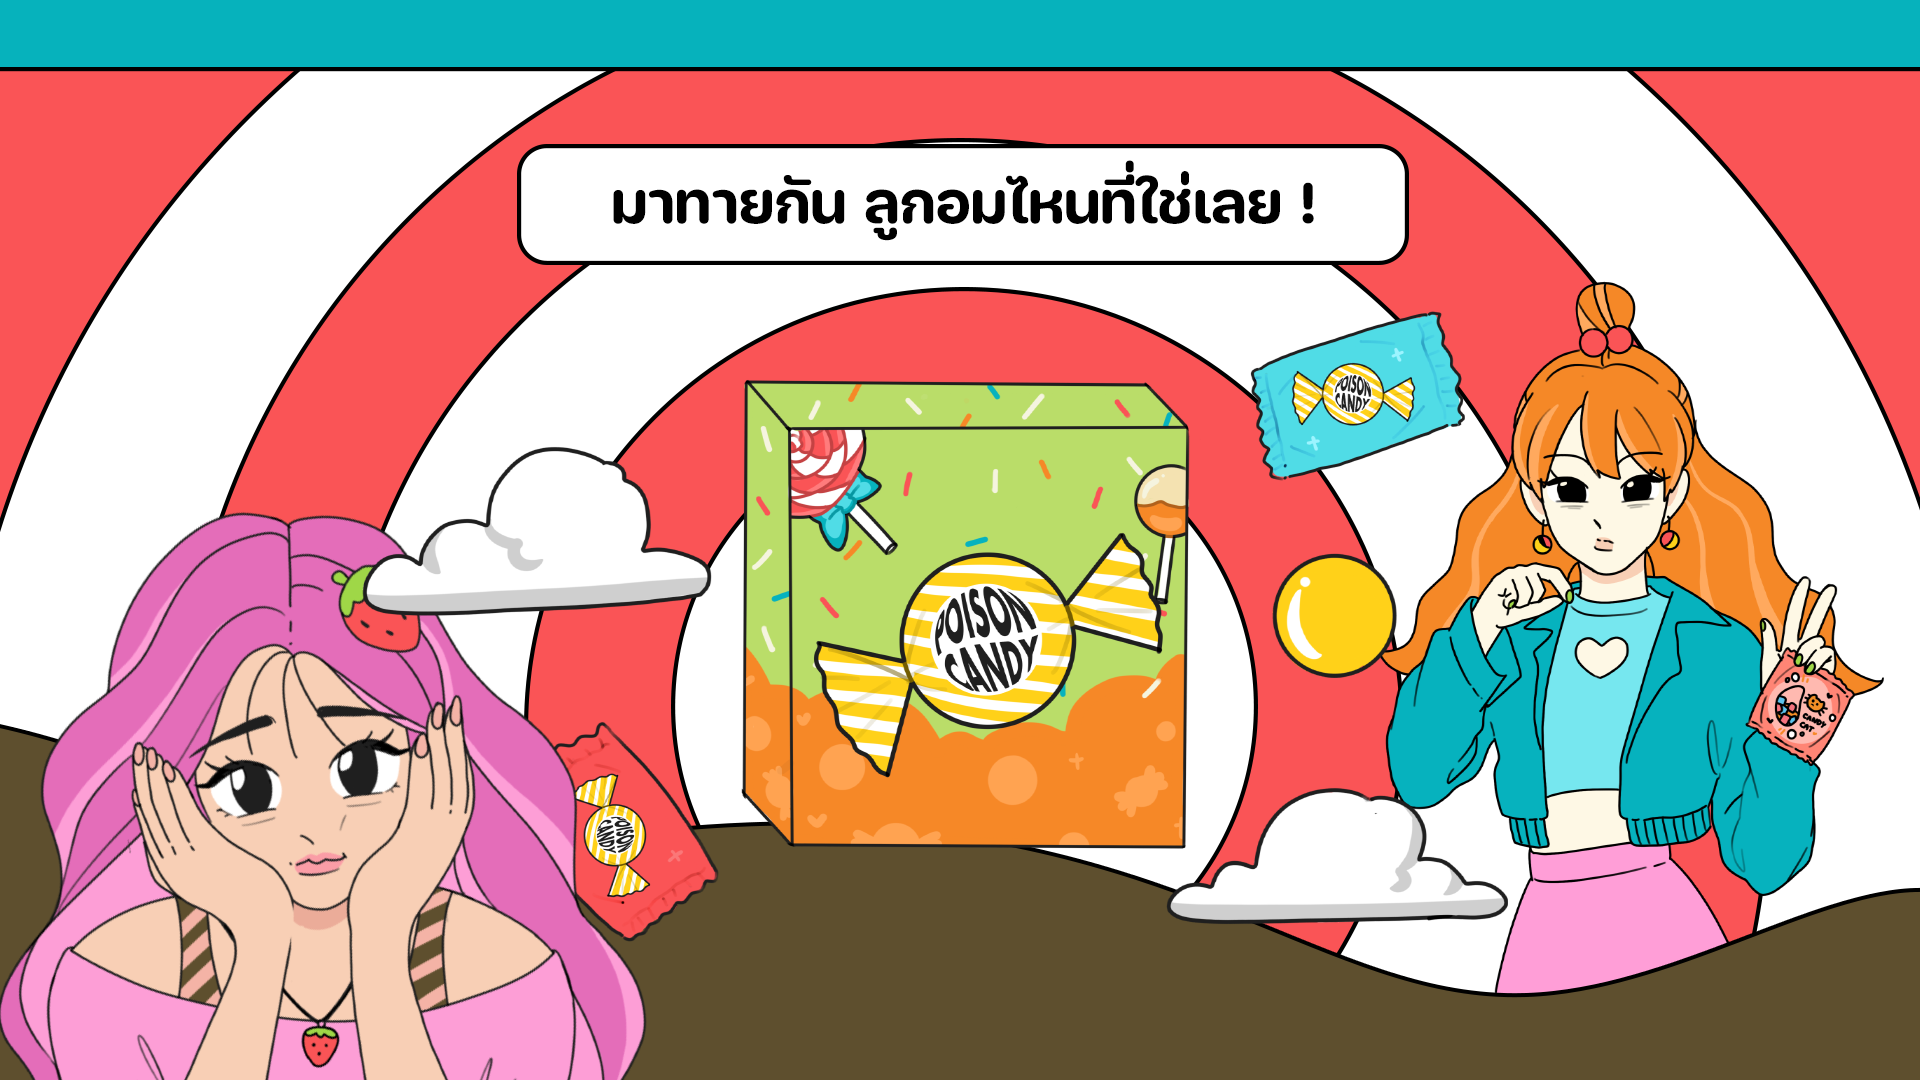
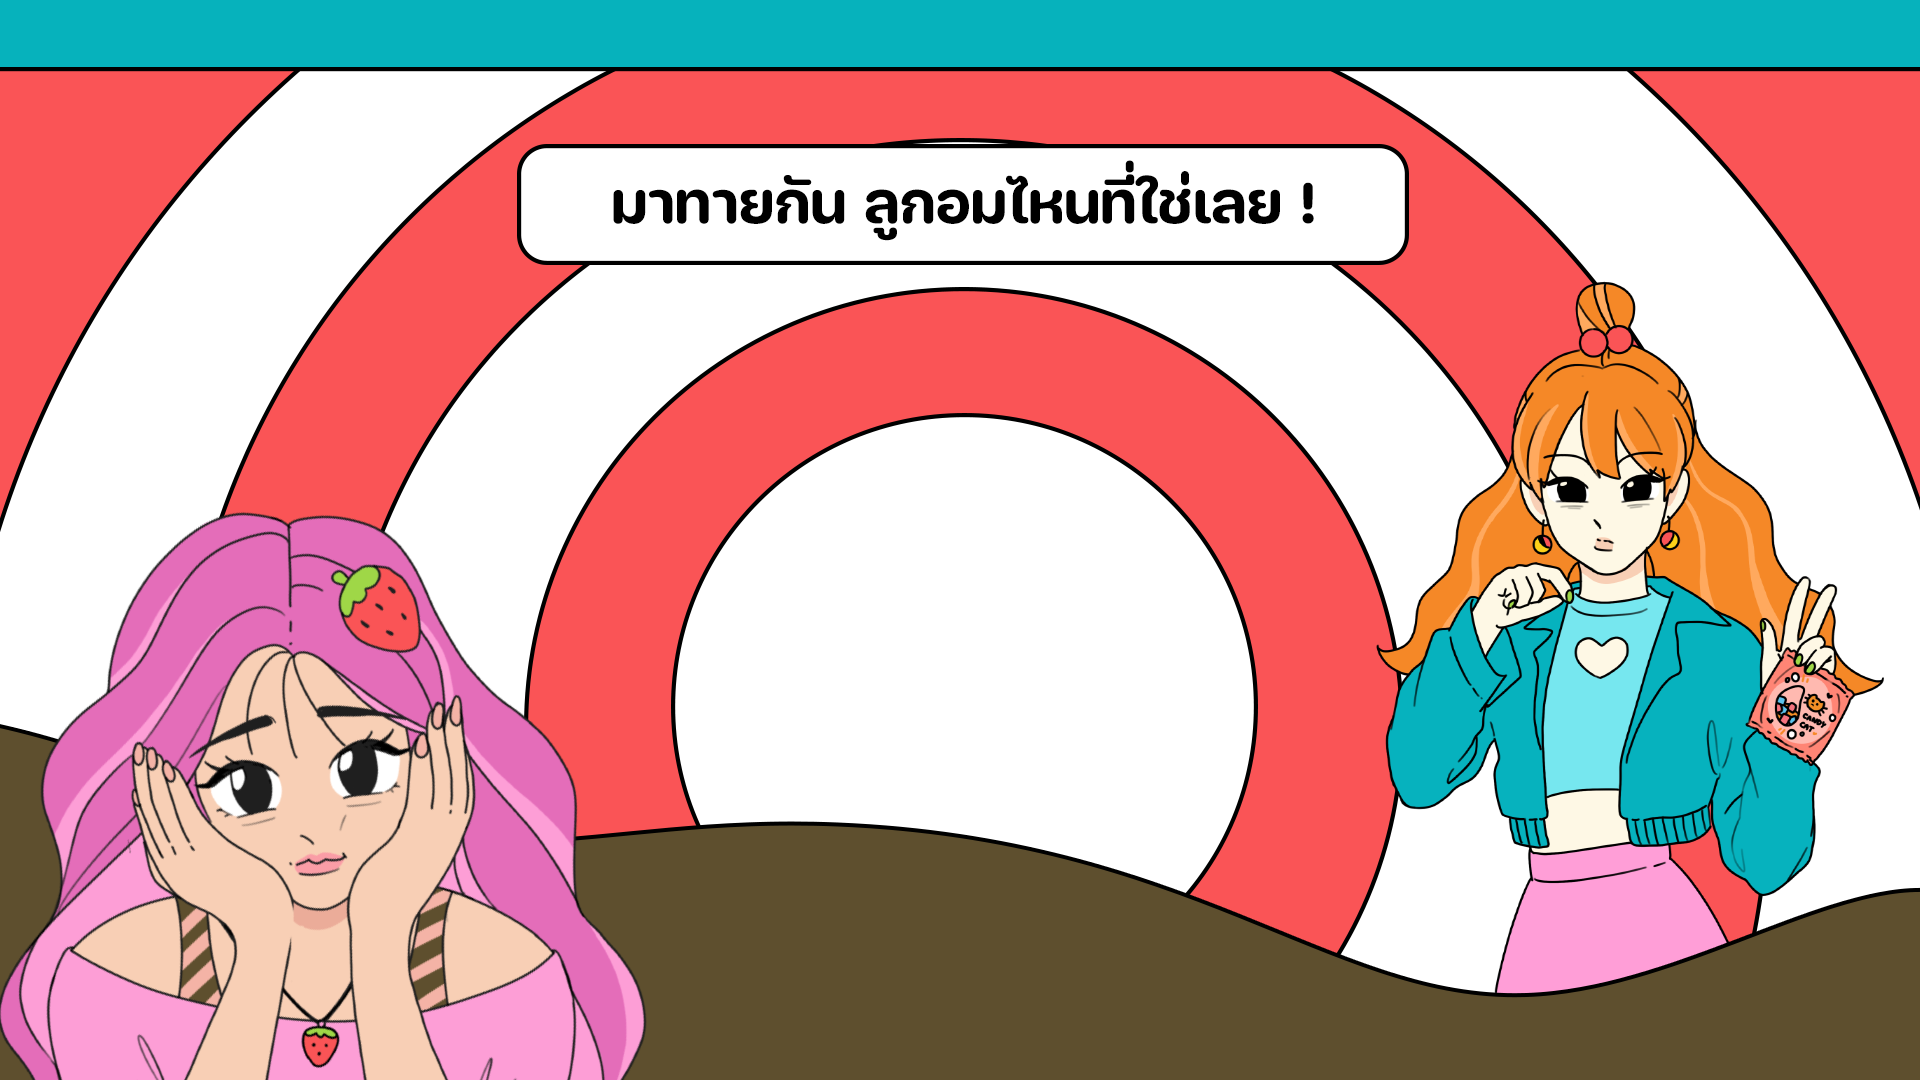
add gif file in home and random page

diff --git a/public/index.html b/public/index.html
@@ -104,7 +104,7 @@
                   <div class="mySlides">
                     <img
                       class="mx-auto d-block"
-                      src="images/โกหก.png"
+                      src="images/ลิลลี่.gif"
                       style="width: 80%"
                     />
                     <p class="text-center"><strong>เพื่อนรักชอบโกหก</strong> ( ลิลลี่ )</p>
@@ -112,7 +112,7 @@
                   <div class="mySlides">
                     <img
                       class="mx-auto d-block"
-                      src="images/เห็นแก่ตัว.png"
+                      src="images/เซลล์.gif"
                       style="width: 80%"
                     />
                     <p class="text-center"><strong>เพื่อนรักเห็นแก่ตัว</strong> ( เซลล์ )</p>
@@ -120,7 +120,7 @@
                   <div class="mySlides">
                     <img
                       class="mx-auto d-block"
-                      src="images/หลงตัวเอง.png"
+                      src="images/แน็ต.gif"
                       style="width: 80%"
                     />
                     <p class="text-center"><strong>เพื่อนรักหลงตัวเอง</strong> ( แน็ต )</p>
@@ -128,7 +128,7 @@
                   <div class="mySlides">
                     <img
                       class="mx-auto d-block"
-                      src="images/ล้ำเส้น.png"
+                      src="images/ไพร์ช.gif"
                       style="width: 80%"
                     />
                     <p class="text-center"><strong>เพื่อนรักชอบล้ำเล้นความเป็นส่วนตัว</strong>( ไพร์ช ) </p>
@@ -136,7 +136,7 @@
                   <div class="mySlides">
                     <img
                       class="mx-auto d-block"
-                      src="images/ขี้นินทา.png"
+                      src="images/กอส.gif"
                       style="width: 80%"
                     />
                     <p class="text-center"><strong>เพื่อนรักขี้นินทา</strong>  ( กอส ) </p>

diff --git a/public/random.html b/public/random.html
@@ -75,8 +75,11 @@
       </div>
     </nav>
     <div>
-      <img src="../images/BG-random.png" width="100%" height="100%" /><button
-        class="btn randomBtn" onclick="randomPage()"
+      <!-- <img src="../images/BG-random.png" width="100%" height="100%" /> -->
+      <img src="../images/กล่องลูกอม.gif" width="100%" />
+      <button
+        class="btn randomBtn"
+        onclick="randomPage()"
       >
         <img src="../images/SHAKE (1).png" height="60" />
       </button>
@@ -85,7 +88,7 @@
     <script>
       function randomPage() {
         var number = Math.floor(Math.random() * 10) + 1;
-        location.replace("result" + number + ".html")
+        location.replace('result' + number + '.html');
       }
     </script>
   </body>

diff --git a/public/scripts/css/styles.css b/public/scripts/css/styles.css
@@ -27,7 +27,7 @@ p {
 .bg-random {
   background-image: url('../../images/BG-random.png');
   background-repeat: no-repeat;
-  background-attachment: fixed;
+  background-attachment: scroll;
   background-size: 100%;
 }
 

diff --git a/scripts/css/styles.css b/scripts/css/styles.css
@@ -27,7 +27,7 @@ p {
 .bg-random {
   background-image: url('../../images/BG-random.png');
   background-repeat: no-repeat;
-  background-attachment: fixed;
+  background-attachment: scroll;
   background-size: 100%;
 }
 
